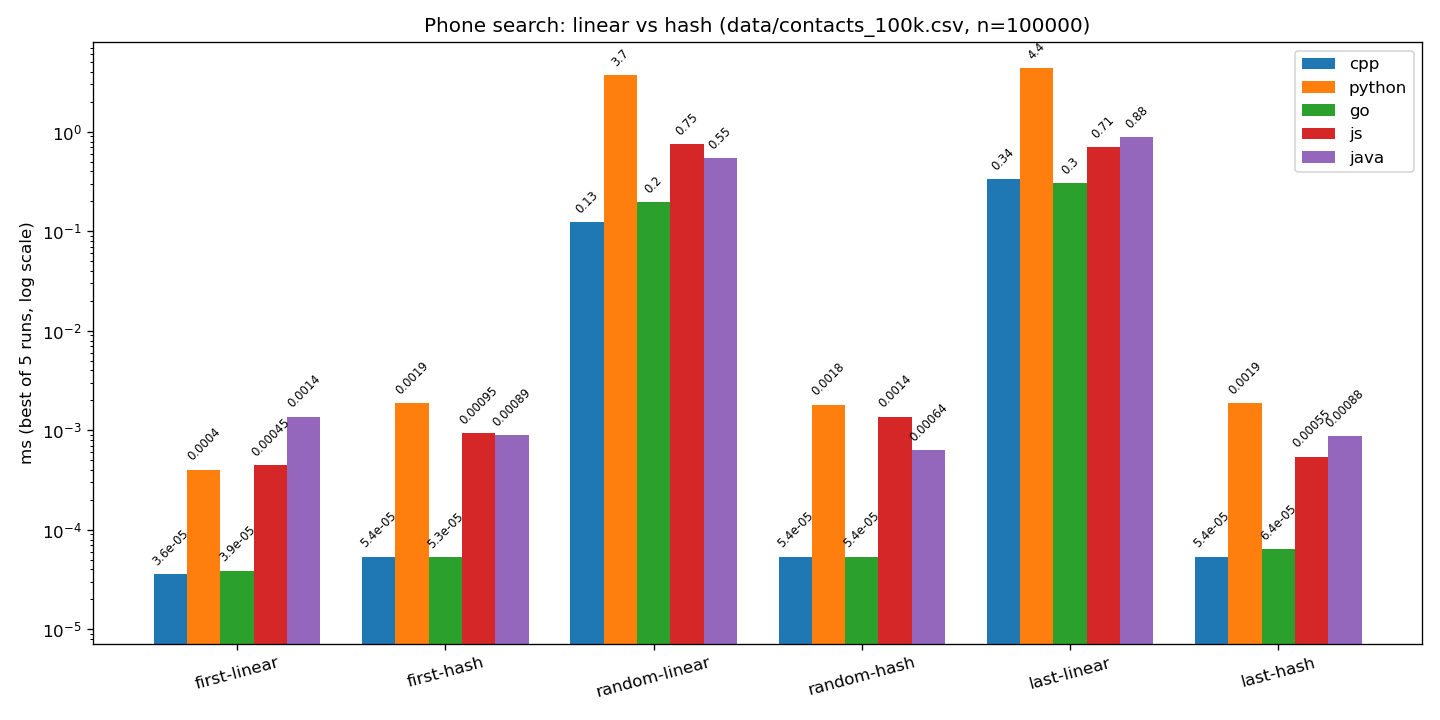
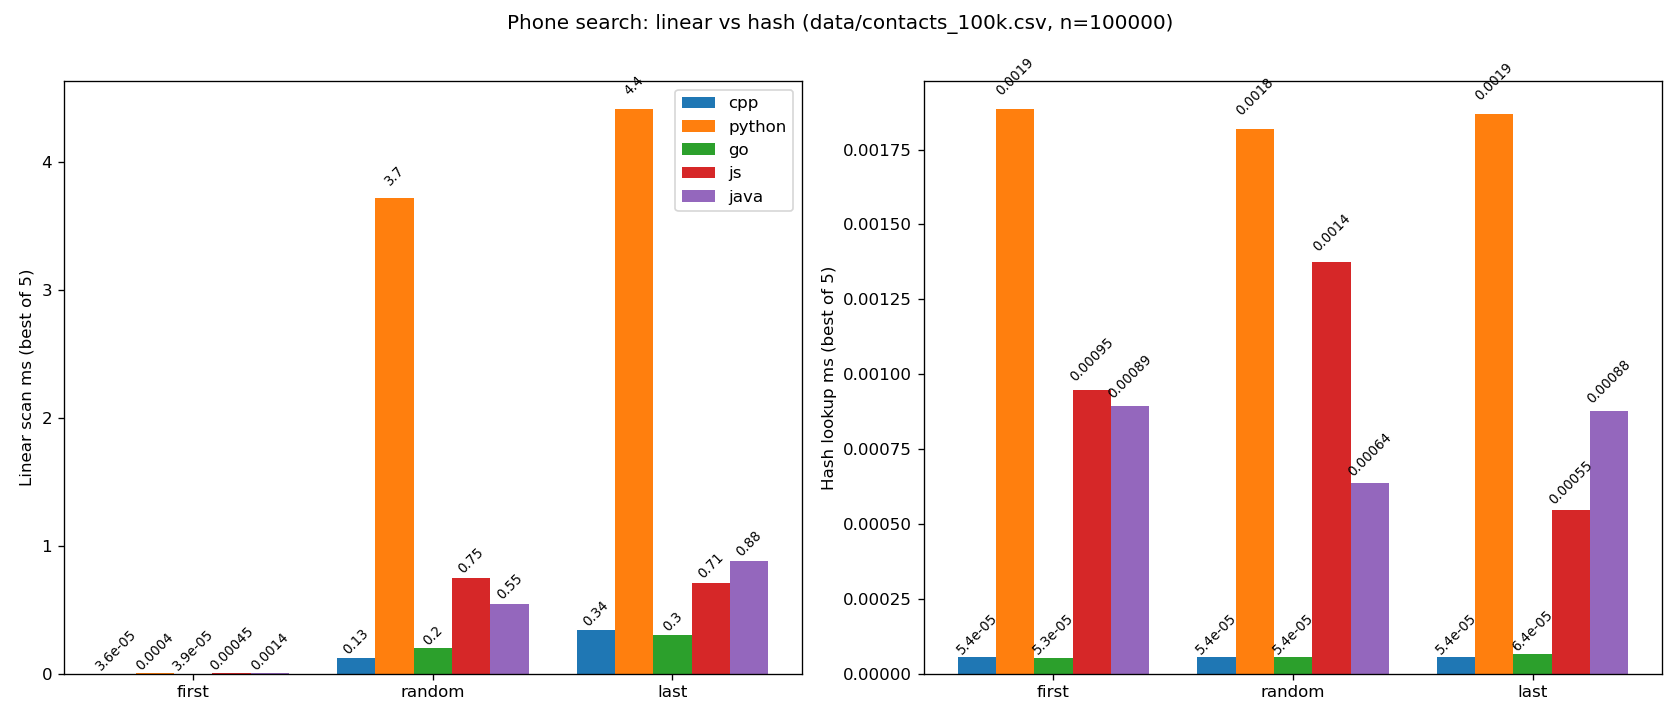
pre-release v0.1.1

diff --git a/benchmark/plot.py b/benchmark/plot.py
@@ -12,6 +12,7 @@ Usage:
 
 import argparse
 import csv
+import os
 import sys
 
 LANG_ORDER = ["cpp", "python", "go", "js", "java"]
@@ -105,38 +106,105 @@ def main():
         print("error: no plottable rows found", file=sys.stderr)
         return 1
 
-    xlabels = [f"{c}-{a}" for c, a in GROUPS]
-    x = range(len(GROUPS))
+    # Two linear-scale panels (linear algo | hash algo): ratios within a
+    # panel are honest, and the us-scale hash bars get their own axis
+    # instead of being flattened by the ms-scale linear bars.
+    # Missing combos -> NaN (gap, no bar).
     width = 0.8 / len(LANG_ORDER)
+    panels = [
+        ("Linear scan ms (best of 5)", [(c, "linear") for c in CASE_ORDER]),
+        ("Hash lookup ms (best of 5)", [(c, "hash") for c in CASE_ORDER]),
+    ]
 
-    # Log y-axis: linear cases (~ms) dwarf hash cases (~µs) on a linear
-    # scale. Missing combos -> NaN (no bar) so log never sees 0.
-    import math
-
-    positives = [v for v in best.values() if v > 0]
-    floor = min(positives) / 5 if positives else 1e-6
-
-    fig, ax = plt.subplots(figsize=(12, 6))
-    for i, lang in enumerate(LANG_ORDER):
-        vals = [best.get((lang, c, a), float("nan")) for c, a in GROUPS]
-        offs = [p + (i - (len(LANG_ORDER) - 1) / 2) * width for p in x]
-        bars = ax.bar(offs, vals, width=width, label=lang, log=True)
-        for b, v in zip(bars, vals):
-            if v == v and v > 0:  # not NaN
-                ax.text(b.get_x() + b.get_width() / 2, v * 1.15, f"{v:.2g}",
-                        ha="center", va="bottom", fontsize=7, rotation=45)
-
-    ax.set_xticks(list(x))
-    ax.set_xticklabels(xlabels, rotation=15)
-    ax.set_yscale("log")
-    ax.set_ylim(bottom=floor)
-    ax.set_ylabel("ms (best of 5 runs, log scale)")
-    ax.set_title(f"Phone search: linear vs hash ({dataset}, n={n})")
-    ax.legend()
+    fig, axes = plt.subplots(1, 2, figsize=(14, 6))
+    for ax, (ylabel, groups) in zip(axes, panels):
+        x = range(len(groups))
+        for i, lang in enumerate(LANG_ORDER):
+            vals = [best.get((lang, c, a), float("nan")) for c, a in groups]
+            offs = [p + (i - (len(LANG_ORDER) - 1) / 2) * width for p in x]
+            bars = ax.bar(offs, vals, width=width, label=lang)
+            for b, v in zip(bars, vals):
+                if v == v and v > 0:  # not NaN
+                    ax.text(b.get_x() + b.get_width() / 2, v * 1.02, f"{v:.2g}",
+                            ha="center", va="bottom", fontsize=8, rotation=45)
+        ax.set_xticks(list(x))
+        ax.set_xticklabels([c for c, _ in groups])
+        ax.set_ylabel(ylabel)
+        ax.set_ylim(bottom=0)
+    axes[0].legend()
+    fig.suptitle(f"Phone search: linear vs hash ({dataset}, n={n})")
     fig.tight_layout()
     fig.savefig(args.output, dpi=120)
     print(f"Wrote {args.output} ({len(best)} cells).")
+
+    # 6 per-group charts: one PNG per (case, algo), horizontal bars sorted
+    # fastest-first. Same LANG_ORDER colors as the overview.
+    cycle = plt.rcParams["axes.prop_cycle"].by_key()["color"]
+    lang_color = {lang: cycle[i % len(cycle)] for i, lang in enumerate(LANG_ORDER)}
+    out_dir = os.path.dirname(args.output) or "."
+    stem = os.path.splitext(os.path.basename(args.output))[0]
+    split_names = []
+    for c, a in GROUPS:
+        pairs = [(lang, best[(lang, c, a)])
+                 for lang in LANG_ORDER if (lang, c, a) in best]
+        pairs.sort(key=lambda p: p[1])  # fastest first
+        fig1, ax1 = plt.subplots(figsize=(8, 5))
+        if pairs:
+            langs = [p[0] for p in pairs]
+            vals = [p[1] for p in pairs]
+            bars = ax1.barh(langs, vals,
+                            color=[lang_color[lang] for lang in langs])
+            for b, v in zip(bars, vals):
+                ax1.text(v * 1.02, b.get_y() + b.get_height() / 2, f"{v:.4g}",
+                         ha="left", va="center", fontsize=9)
+            ax1.set_xlim(right=max(vals) * 1.25)
+            ax1.invert_yaxis()  # fastest bar on top
+        ax1.set_xlabel("ms (best of 5 runs)")
+        ax1.set_title(f"{c}-{a} across languages, fastest first ({dataset}, n={n})")
+        fig1.tight_layout()
+        name = f"{stem}-{c}-{a}.png"
+        split_path = os.path.join(out_dir, name)
+        fig1.savefig(split_path, dpi=120)
+        plt.close(fig1)
+        split_names.append(name)
+        print(f"Wrote {split_path}.")
+
+    update_readme(out_dir, split_names)
     return 0
+
+
+README_START = "<!-- PLOT-SPLITS:START -->"
+README_END = "<!-- PLOT-SPLITS:END -->"
+
+
+def update_readme(out_dir, split_names):
+    """Rewrite the auto-generated image list in README.md (idempotent).
+
+    Looks for README.md next to the benchmark/ dir and replaces everything
+    between PLOT-SPLITS markers with one `![..](benchmark/...)` line per
+    split image, so the 6 charts always land in the right place.
+    """
+    root = os.path.dirname(os.path.abspath(out_dir))
+    readme = os.path.join(root, "README.md")
+    try:
+        with open(readme, "r", encoding="utf-8") as f:
+            text = f.read()
+    except OSError as e:
+        print(f"warn: README update skipped (cannot read {readme}): {e}",
+              file=sys.stderr)
+        return
+    if README_START not in text or README_END not in text:
+        print("warn: README update skipped (markers not found)", file=sys.stderr)
+        return
+    bench_dir = os.path.basename(os.path.abspath(out_dir))
+    lines = [f"![{os.path.splitext(n)[0].replace('plot-', '')}]"
+             f"({bench_dir}/{n})" for n in split_names]
+    block = README_START + "\n\n" + "\n".join(lines) + "\n\n" + README_END
+    pre, _, rest = text.partition(README_START)
+    _, _, post = rest.partition(README_END)
+    with open(readme, "w", encoding="utf-8", newline="\n") as f:
+        f.write(pre + block + post)
+    print(f"Updated image list in {readme}.")
 
 
 if __name__ == "__main__":

diff --git a/README.md b/README.md
@@ -196,8 +196,9 @@ across languages — `target_index,phone` columns make that auditable).
 Option `0` stays unseeded.
 
 `make run-benchmark` also draws `benchmark/plot.png` at the end via
-`benchmark/plot.py` (grouped bars on a log y-axis, best of 5 per cell —
-log scale so the µs hash bars stay visible next to the ms linear bars; needs matplotlib —
+`benchmark/plot.py` (two linear-scale panels — linear scan | hash lookup —
+best of 5 per cell with value labels; split axes so bar heights stay in
+true ratio and the µs hash bars aren't flattened by the ms linear bars; needs matplotlib —
 without it the plot step prints `plot skipped` and the CSV is still
 produced). The script parses every language's `ms` float format
 (C++ `setprecision(17)`, Python `repr`, Go `%g`, JS double, Java
@@ -205,6 +206,72 @@ produced). The script parses every language's `ms` float format
 never a crash.
 
 ![Phone search benchmark: linear vs hash across 5 languages](benchmark/plot.png)
+
+<details>
+<summary>Per-group charts (one image per case × algo, horizontal, fastest first)</summary>
+
+<!-- PLOT-SPLITS:START -->
+
+![first-linear](benchmark/plot-first-linear.png)
+![first-hash](benchmark/plot-first-hash.png)
+![random-linear](benchmark/plot-random-linear.png)
+![random-hash](benchmark/plot-random-hash.png)
+![last-linear](benchmark/plot-last-linear.png)
+![last-hash](benchmark/plot-last-hash.png)
+
+<!-- PLOT-SPLITS:END -->
+
+</details>
+
+### Reading the chart fairly
+
+**What is being compared.** Same handwritten algorithm, same input, same
+machine: a hand-rolled chained hash table and a hand-rolled linear scan
+over `contacts_100k.csv` (n=100000) in all five languages — no `dict`,
+`map`, or `HashMap` anywhere. This is a *language + runtime* comparison
+of equivalent code. It is deliberately **not** hand-written C++ vs
+Python's built-in `dict`: that would compare a teaching implementation
+against a production hash table (open addressing, optimized C) and would
+answer a different question.
+
+**Same position, except `random`.** `first` (index 0) and `last`
+(index n−1) hit the identical phone in every language, so those bars
+are directly comparable. The `random` target is seeded (42) but each
+language has its own RNG, so the index differs per language — check
+`target_index` in the CSV before comparing `random-*` bars across
+languages.
+
+**Explaining the gap, not just observing it.** "Python is slower" is an
+observation; the mechanism is the answer:
+
+* **C++ (`-O2`)** is the baseline: `vector<Contact>` stores structs
+  contiguously, short strings sit inside the object (SSO), and the scan
+  compiles to a tight machine-code loop with no per-element overhead.
+* **Python** pays per element: every `Contact`, `str`, and `int` is a
+  heap-boxed `PyObject` reached through a pointer, and each loop
+  iteration runs CPython bytecode dispatch plus attribute-dict lookups.
+  That is why `last-linear` is ~10× the others — 100k interpreter steps
+  vs 100k machine instructions. The hash bars stay small because O(1)
+  steps mean the per-op tax applies ~once, not 100k times.
+* **Go** is compiled with value-type slices, so its scan is a real
+  machine loop (bounds checks are nearly free here) — expect it closest
+  to C++. Its gap is runtime checks + GC write barriers, not
+  interpretation.
+* **JavaScript (V8)** stores an array of heap objects (pointer chasing +
+  hidden-class checks per access) and must JIT-warm: best-of-5 lets the
+  optimizing compiler settle, but run-to-run spread is JIT tier-up, not
+  noise in your code.
+* **Java** is the same story on the JVM: `ArrayList<Contact>` holds
+  references, the C2 compiler kicks in after ~10k loop iterations (one
+  100k scan trips it), and G1 may pause — startup is *not* measured,
+  only the timed search, which flatters Java fairly since all languages
+  get the same treatment.
+
+**What you may claim.** The portable, algorithmic claim is the *trend
+within each language*: linear grows first→last, hash stays ~constant —
+it holds in all five, which is the DSA point. Cross-language magnitude
+differences are runtime properties; cite them only with the mechanism
+above, plus your machine spec (CPU/RAM, OS, toolchains, commit).
 
 Per `CONTRIBUTING.md`, a timing without conditions is not a measurement.
 Do not compare ms across languages (different runtimes/timers). The only
